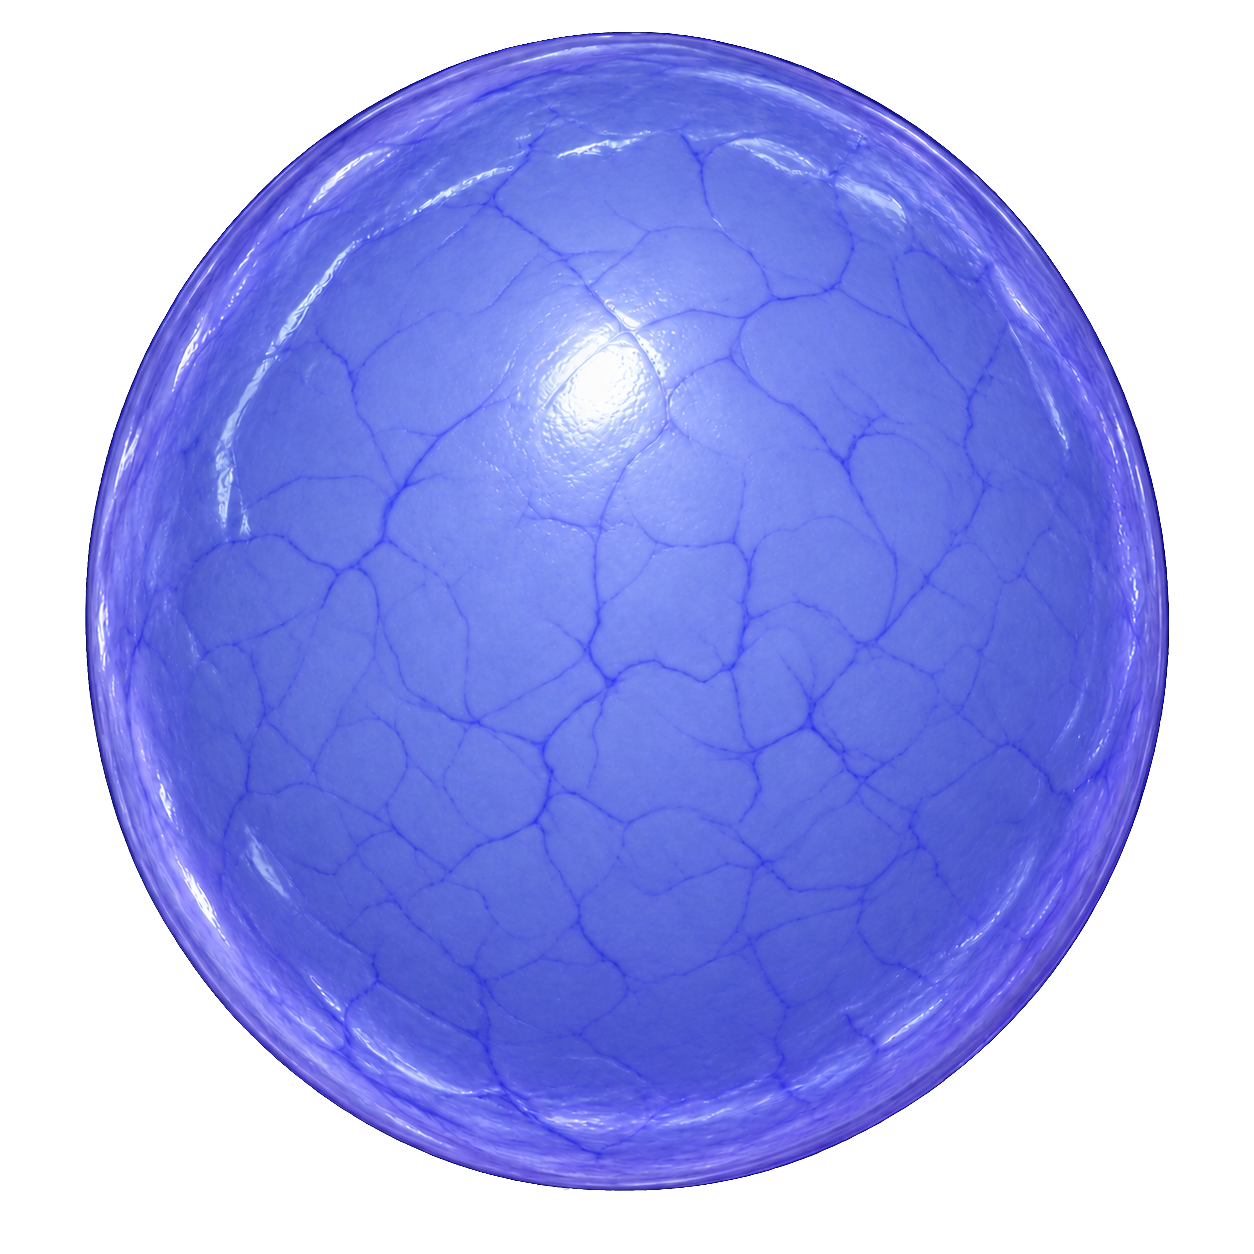
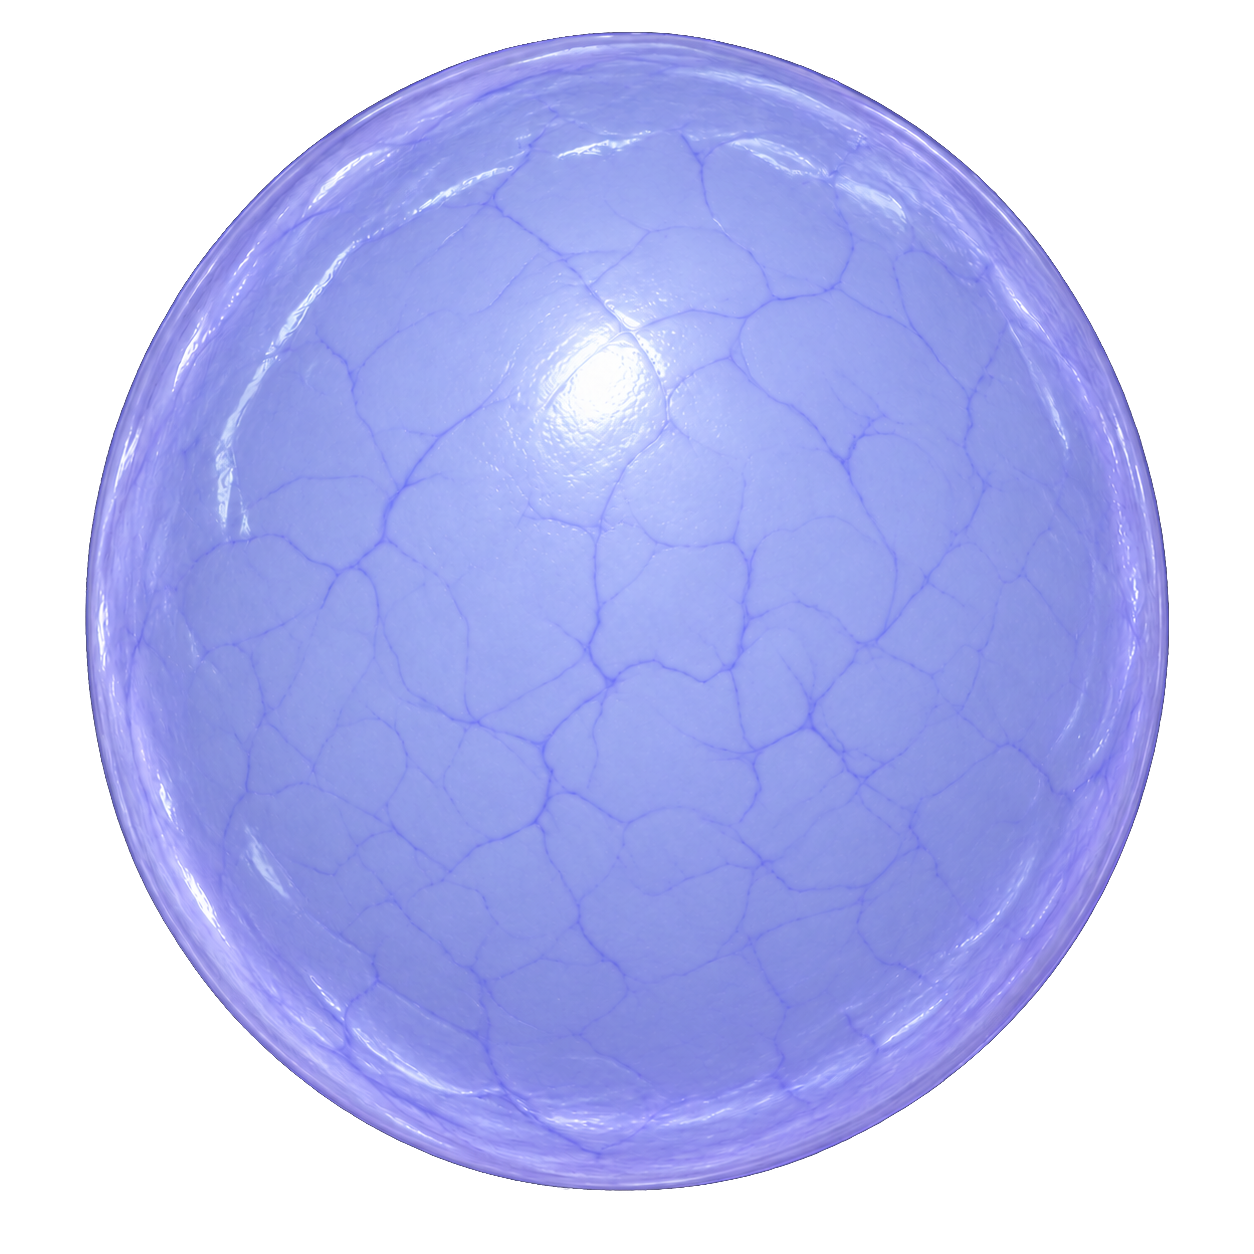
Reduz opacidade do foliculo azul para 70 por cento

diff --git a/app.html b/app.html
@@ -400,8 +400,8 @@
             <img src="assets/lesoes/retrocervical-manual-transparente.png" alt="" style="object-fit: contain; border-radius: 0" />
             <span>Retrocervical</span>
           </button>
-          <button class="modelo-lesao" type="button" data-modelo="assets/lesoes/foliculo.png?v=azul-1" data-nome="Folículo" data-proporcao="1" data-sem-recorte="true" data-tamanho-inicial="25" data-tamanho-minimo="5">
-            <img src="assets/lesoes/foliculo.png?v=azul-1" alt="" style="object-fit: contain; border-radius: 0" />
+          <button class="modelo-lesao" type="button" data-modelo="assets/lesoes/foliculo.png?v=azul-70" data-nome="Folículo" data-proporcao="1" data-sem-recorte="true" data-tamanho-inicial="25" data-tamanho-minimo="5">
+            <img src="assets/lesoes/foliculo.png?v=azul-70" alt="" style="object-fit: contain; border-radius: 0" />
             <span>Folículo</span>
           </button>
           <button class="modelo-lesao" type="button" data-modelo="assets/lesoes/cisto-referencia.png" data-nome="Cisto" data-proporcao="1" data-sem-recorte="true" data-tamanho-inicial="65">

diff --git a/ESPEC.md b/ESPEC.md
@@ -30,6 +30,8 @@ Mais para a frente, a IA transformará o ditado médico ao vivo em instruções 
 
 ## 6. FORA DE ESCOPO
 
+Transparência do folículo azul (13/10/2026): por solicitação de maior transparência, o alfa passa a 70% do valor anterior em todos os pixels, com arredondamento para PNG de 8 bits. Mantém os canais de cor da versão azul, os detalhes e as dimensões. Aplica-se a todas as contas e novas exportações. Reproduzir a partir do original rosa com `azular-foliculo.ps1 -Opacidade 0.7`; não aplicar sobre uma versão já convertida.
+
 Folículo azul (13/10/2026): a imagem compartilhada por todas as contas passa de vermelho/rosa para azul, por permutação dos canais RGB para GBR (rotação de matiz de 240°). Preserva exatamente o canal de transparência, as dimensões de 1254 × 1254, a geometria, a saturação e a luminosidade HSL de cada pixel, mantendo textura, sombras e brilhos sem geração por IA. Biblioteca, montagens reabertas e novas exportações usam a imagem azul; arquivos já baixados permanecem como foram gerados. O caminho da imagem permanece compatível com montagens salvas e recebe versão de cache na biblioteca. Conversão reproduzível em `output/estudos-realismo/azular-foliculo.ps1`, usando como origem a versão rosa anterior do histórico Git.
 
 Indicações laterais (13/10/2026): somente a conta autenticada `andreneide@yahoo.com.br` recebe E na margem esquerda e D na margem direita, na metade da altura da folha, fora da anatomia. Aplica-se ao coronal e a todos os mapas especiais, exceto Útero Retrofletido. Sagital e demais contas não recebem as letras. A camada acompanha a assinatura na tela e nas capturas PNG, JPEG e PDF, sem IA.
